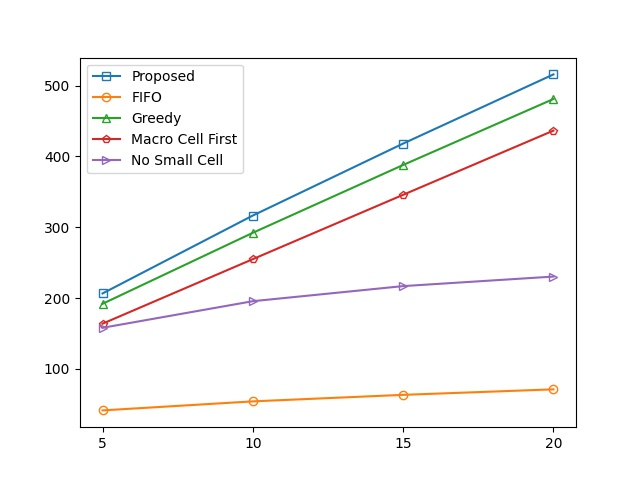
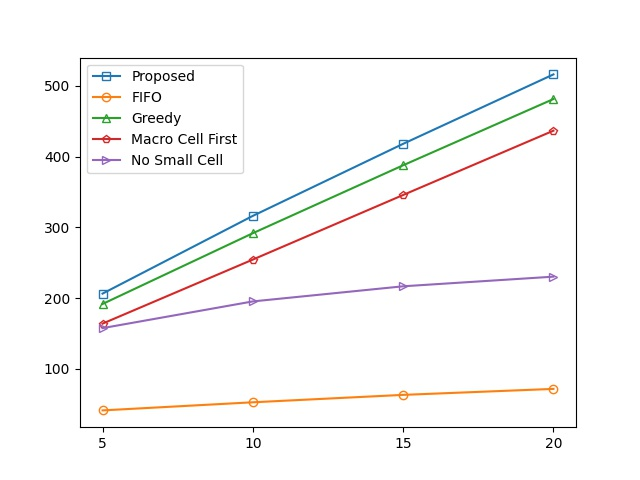
Rerun simulations
Small cell number reduce to 10

diff --git a/Plot.py b/Plot.py
@@ -129,22 +129,23 @@ def cpu_cycles():
                     )
             i += 1
             pbar.update(1)
-        print(par)
-        print(f"Avg of task being allocate by FIFO : {sum_FIFO/ITER}")
+        if DEBUG:
+            print(par)
+            print(f"Avg of task being allocate by FIFO : {sum_FIFO/ITER}")
+            print(
+                f"Avg of task being allocate by Proposed algorithm : {sum_proposed/ITER}")
+            print(
+                f"Avg of task being allocate by Greedy algorithm : {sum_greedy/ITER}")
+            print(
+                f"Avg of task being allocate by macro cell First algorithm : {sum_macro_cell_first/ITER}"
+            )
+            print(
+                f"Avg of task being allocate by No small cell algorithm : {sum_no_small_cell/ITER}"
+            )
         tasks_FIFO.append(sum_FIFO / ITER)
-        print(
-            f"Avg of task being allocate by Proposed algorithm : {sum_proposed/ITER}")
         tasks_proposed.append(sum_proposed / ITER)
-        print(
-            f"Avg of task being allocate by Greedy algorithm : {sum_greedy/ITER}")
         tasks_greedy.append(sum_greedy / ITER)
-        print(
-            f"Avg of task being allocate by macro cell First algorithm : {sum_macro_cell_first/ITER}"
-        )
         tasks_macro_cell_first.append(sum_macro_cell_first / ITER)
-        print(
-            f"Avg of task being allocate by No small cell algorithm : {sum_no_small_cell/ITER}"
-        )
         tasks_no_small_cell.append(sum_no_small_cell / ITER)
     plt.figure()
     plt.plot(
@@ -298,22 +299,23 @@ def small_cells_nums():
                     )
             i += 1
             pbar.update(1)
-        print(par)
-        print(f"Avg of task being allocate by FIFO : {sum_FIFO/ITER}")
+        if DEBUG:
+            print(par)
+            print(f"Avg of task being allocate by FIFO : {sum_FIFO/ITER}")
+            print(
+                f"Avg of task being allocate by Proposed algorithm : {sum_proposed/ITER}")
+            print(
+                f"Avg of task being allocate by Greedy algorithm : {sum_greedy/ITER}")
+            print(
+                f"Avg of task being allocate by macro cell First algorithm : {sum_macro_cell_first/ITER}"
+            )
+            print(
+                f"Avg of task being allocate by No small cell algorithm : {sum_no_small_cell/ITER}"
+            )
         tasks_FIFO.append(sum_FIFO / ITER)
-        print(
-            f"Avg of task being allocate by Proposed algorithm : {sum_proposed/ITER}")
         tasks_proposed.append(sum_proposed / ITER)
-        print(
-            f"Avg of task being allocate by Greedy algorithm : {sum_greedy/ITER}")
         tasks_greedy.append(sum_greedy / ITER)
-        print(
-            f"Avg of task being allocate by macro cell First algorithm : {sum_macro_cell_first/ITER}"
-        )
         tasks_macro_cell_first.append(sum_macro_cell_first / ITER)
-        print(
-            f"Avg of task being allocate by No small cell algorithm : {sum_no_small_cell/ITER}"
-        )
         tasks_no_small_cell.append(sum_no_small_cell / ITER)
     plt.figure()
     plt.plot(
@@ -469,22 +471,23 @@ def transmission_time():
                     )
             i += 1
             pbar.update(1)
-        print(par)
-        print(f"Avg of task being allocate by FIFO : {sum_FIFO/ITER}")
+        if DEBUG:
+            print(par)
+            print(f"Avg of task being allocate by FIFO : {sum_FIFO/ITER}")
+            print(
+                f"Avg of task being allocate by Proposed algorithm : {sum_proposed/ITER}")
+            print(
+                f"Avg of task being allocate by Greedy algorithm : {sum_greedy/ITER}")
+            print(
+                f"Avg of task being allocate by macro cell First algorithm : {sum_macro_cell_first/ITER}"
+            )
+            print(
+                f"Avg of task being allocate by No small cell algorithm : {sum_no_small_cell/ITER}"
+            )
         tasks_FIFO.append(sum_FIFO / ITER)
-        print(
-            f"Avg of task being allocate by Proposed algorithm : {sum_proposed/ITER}")
         tasks_proposed.append(sum_proposed / ITER)
-        print(
-            f"Avg of task being allocate by Greedy algorithm : {sum_greedy/ITER}")
         tasks_greedy.append(sum_greedy / ITER)
-        print(
-            f"Avg of task being allocate by macro cell First algorithm : {sum_macro_cell_first/ITER}"
-        )
         tasks_macro_cell_first.append(sum_macro_cell_first / ITER)
-        print(
-            f"Avg of task being allocate by No small cell algorithm : {sum_no_small_cell/ITER}"
-        )
         tasks_no_small_cell.append(sum_no_small_cell / ITER)
     plt.figure()
     plt.plot(
@@ -637,22 +640,23 @@ def cell_capacity():
                     )
             i += 1
             pbar.update(1)
-        print(par)
-        print(f"Avg of task being allocate by FIFO : {sum_FIFO/ITER}")
+        if DEBUG:
+            print(par)
+            print(f"Avg of task being allocate by FIFO : {sum_FIFO/ITER}")
+            print(
+                f"Avg of task being allocate by Proposed algorithm : {sum_proposed/ITER}")
+            print(
+                f"Avg of task being allocate by Greedy algorithm : {sum_greedy/ITER}")
+            print(
+                f"Avg of task being allocate by macro cell First algorithm : {sum_macro_cell_first/ITER}"
+            )
+            print(
+                f"Avg of task being allocate by No small cell algorithm : {sum_no_small_cell/ITER}"
+            )
         tasks_FIFO.append(sum_FIFO / ITER)
-        print(
-            f"Avg of task being allocate by Proposed algorithm : {sum_proposed/ITER}")
         tasks_proposed.append(sum_proposed / ITER)
-        print(
-            f"Avg of task being allocate by Greedy algorithm : {sum_greedy/ITER}")
         tasks_greedy.append(sum_greedy / ITER)
-        print(
-            f"Avg of task being allocate by macro cell First algorithm : {sum_macro_cell_first/ITER}"
-        )
         tasks_macro_cell_first.append(sum_macro_cell_first / ITER)
-        print(
-            f"Avg of task being allocate by No small cell algorithm : {sum_no_small_cell/ITER}"
-        )
         tasks_no_small_cell.append(sum_no_small_cell / ITER)
     plt.figure()
     plt.plot(

diff --git a/main.py b/main.py
@@ -7,7 +7,11 @@ from System import *
 
 
 if __name__ == "__main__":
+    print("CPU")
     cpu_cycles()
+    print("Small Cell")
     small_cells_nums()
+    print("Transmission")
     transmission_time()
+    print("Cell Capacity")
     cell_capacity()

diff --git a/Const.py b/Const.py
@@ -1,5 +1,5 @@
 ITER = 1000
-SMALL_NUM = 20
+SMALL_NUM = 10
 SMALL_CELL_USER_NUM = 50
 MACRO_CELL_USER_NUM = 100
 TIME_TO_SMALL_CELL = 5E-3
